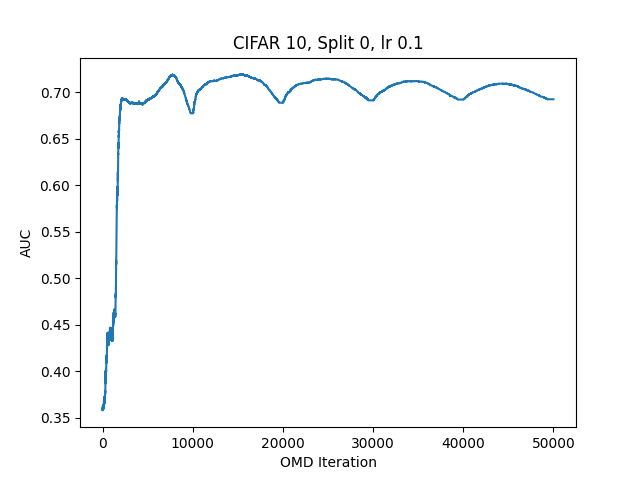
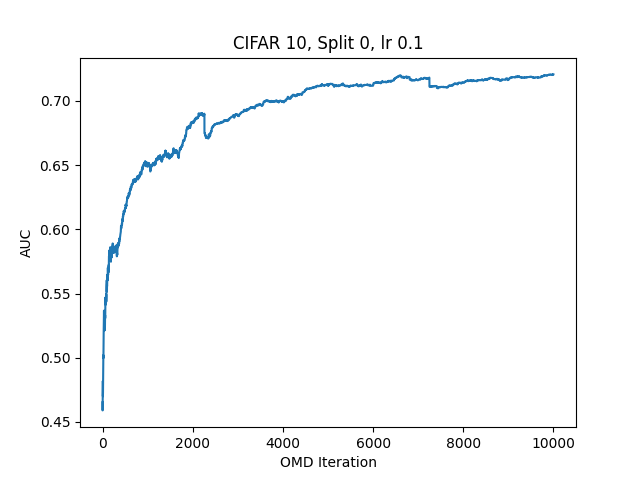
Finished random strategy trial

diff --git a/oracle_omd.py b/oracle_omd.py
@@ -73,7 +73,7 @@ def load_data(split=0, normalize=False):
     return (kn_train, kn_val, kn_test, unkn_train, unkn_val, unkn_test)
 
 
-def omd_test(train_latent_data, latent_data, anom_classes, split, loda_tx_test, test_classes, weight_prior, learning_rate=1e-2):
+def omd_test(train_latent_data, latent_data, anom_classes, split, loda_tx_test, test_classes, weight_prior, strategy="max", learning_rate=1e-2):
     '''
     Training a linear anomaly detector
 
@@ -90,7 +90,7 @@ def omd_test(train_latent_data, latent_data, anom_classes, split, loda_tx_test, 
     '''
     N = len(latent_data)
     T = N
-    epochs = 5
+    epochs = 1
     labels = latent_data['label'].copy()
     labels = labels.to_numpy().reshape((len(labels),1))
     #theta, clf = get_weight_prior(train_latent_data)
@@ -113,7 +113,14 @@ def omd_test(train_latent_data, latent_data, anom_classes, split, loda_tx_test, 
     for k in range(epochs):
         for i in range(T):
             w = get_nearest_w(theta)
-            d_anom, idx = get_max_anomaly_score(w, data)
+            if strategy == "max":
+                # d_anom is data[idx] reshaped to (len(data[idx]),1)
+                d_anom, idx = get_max_anomaly_score(w, data)
+            elif strategy == "random":
+                # assign d_anom, idx appropriately
+                idx = np.random.randint(len(data))
+                d_anom = data[idx].reshape((len(data[idx]),1))
+                assert(idx < len(data) and idx >= 0) 
             y = get_feedback(labels[idx,0], anom_classes)
          
             # Associating nom/anom labels with each iteration
@@ -137,7 +144,7 @@ def omd_test(train_latent_data, latent_data, anom_classes, split, loda_tx_test, 
     return np.array([i for i in range(epochs*T)]), np.array(aucs), np.array(iter_labels) 
 
 
-def omd(train_latent_data, latent_data, anom_classes, split, learning_rate=1e-2):
+def omd(train_latent_data, latent_data, anom_classes, split, strategy="max", learning_rate=1e-2):
     '''
     Training a linear anomaly detector
 
@@ -153,7 +160,7 @@ def omd(train_latent_data, latent_data, anom_classes, split, learning_rate=1e-2)
                   be a list of unique strings)
     '''
     N = len(latent_data)
-    epochs = 5
+    epochs = 1
     T = N
     labels = latent_data['label'].copy()
     labels = labels.to_numpy().reshape((len(labels),1))
@@ -176,7 +183,14 @@ def omd(train_latent_data, latent_data, anom_classes, split, learning_rate=1e-2)
     for k in range(epochs):
         for i in range(T):
             w = get_nearest_w(theta)
-            d_anom, idx = get_max_anomaly_score(w, data) # Could make this more generic strategy function
+            # d_anom is data[idx] reshaped to (len(data[idx]),1)
+            if strategy == "max":
+                d_anom, idx = get_max_anomaly_score(w, data) # Could make this more generic strategy function
+            elif strategy == "random":
+                # assign d_anom, idx appropriately
+                idx = np.random.randint(len(data))
+                d_anom = data[idx].reshape((len(data[idx]),1))
+                assert(idx < len(data) and idx >= 0) 
             y = get_feedback(labels[idx,0], anom_classes)
             data   = np.delete(data, idx, axis=0)
             labels = np.delete(labels, idx, axis=0) 
@@ -592,7 +606,7 @@ def main():
         for j in range(NUM_SPLITS): 
             
              # To revert, replace j with SPLIT
-             anom_classes = [CIFAR_CLASSES[i] for i in splits[SPLIT]]
+             anom_classes = [CIFAR_CLASSES[i] for k in splits[SPLIT]]
              # DEBUG
              #print(anom_classes)
              # GUBED
@@ -653,7 +667,7 @@ def main():
          
 	
              # Note that the train_latent_df is used for determining the initial weight vector
-             w, clf_omd, wprior = omd(train_latent_df, val_latent_df, anom_classes, j, learning_rate=learning_rates[i])
+             w, clf_omd, wprior = omd(train_latent_df, val_latent_df, anom_classes, j, strategy="random", learning_rate=learning_rates[i])
 
          	
              # Construct test set and embed test examples
@@ -663,14 +677,14 @@ def main():
                  test_latent_df = construct_latent_set(kn_classifier, kn_test, unkn_test)
                  test_latent_df.to_csv(Z_test_filename, index=False)
          	
-             '''     
+                 
              # Logistic regression test
              X_val = val_latent_df.drop(columns=['label'])
              X_val = X_val.values
              y_val = val_latent_df['label'].copy()
              len_val = len(y_val)
-             for i in range(len_val):
-                 y_val.iloc[i] = get_feedback(y_val.iloc[i], anom_classes)
+             for k in range(len_val):
+                 y_val.iloc[k] = get_feedback(y_val.iloc[k], anom_classes)
              y_val = y_val.values
              y_val = y_val.astype('int')
              clf = LogisticRegression(max_iter=1000).fit(X_val, y_val)
@@ -680,15 +694,15 @@ def main():
              X_test = X_test.values
              y_test = test_latent_df['label'].copy()
              len_test = len(y_test)
-             for i in range(len_test):
-                 y_test.iloc[i] = get_feedback(y_test.iloc[i], anom_classes)
+             for k in range(len_test):
+                 y_test.iloc[k] = get_feedback(y_test.iloc[k], anom_classes)
              y_test = y_test.values
              y_test = y_test.astype('int')
              # TODO binarize labels
              logistic_score = clf.score(X_test, y_test)
-             print('binary logistic regression score, split {}: {}'.format(j, logistic_score), 
+             print('latent binary logistic regression score, split {}: {}'.format(j, logistic_score), 
                    file=open("results.txt", "a+"))
-             
+             '''
              # TODO: Compute Binary Logistic regression scores on LODA transforms
              # Put validation data through loda transform, then pass it to
              # regression, then score the classifier on the LODA transformed test
@@ -703,10 +717,10 @@ def main():
              else:
                  kn_unkn_val_loda_tx = loda_transform(clf_omd, val_latent_df)
                  np.save(loda_tx_val_filename, kn_unkn_val_loda_tx) 
-             ''' 
+              
              # Train a binary logistic regression classifier on the loda-tx'd latent representations    
              clf_loda_repr       = LogisticRegression(max_iter=1000).fit(kn_unkn_val_loda_tx, y_val)
-             '''
+             
              # Specify path to save loda-transformed latent representation of the test set
              loda_tx_test_filename = os.path.join(MODEL_DATA_DIRECTORY, 'val_loda_tx_test_{}.npy'.format(j)) 
      
@@ -717,12 +731,11 @@ def main():
                  kn_unkn_test_loda_tx = loda_transform(clf_omd, test_latent_df)
                  np.save(loda_tx_test_filename, kn_unkn_test_loda_tx) 
              
-             '''
+             # LODA REP LOGISTIC REGRESSION
              # See how the classifier performs
              loda_tx_logistic_score = clf_loda_repr.score(kn_unkn_test_loda_tx, y_test)
              print('loda tx binary logistic regression score, split {}: {}'.format(j, logistic_score), 
                    file=open("results.txt", "a+"))
-             '''
              
              # Test anomaly detection score on linear model
              # plot AUC (start general, then move to indiv classes?)
@@ -749,7 +762,7 @@ def main():
              #X = data_df.drop(columns=['label'])
          
              # Note that the train_latent_df is used for determining the initial weight vector
-             T_vec, auc_vec, oracle_labels = omd_test(train_latent_df, val_latent_df, anom_classes, j, kn_unkn_test_loda_tx, test_target, wprior, learning_rate=learning_rates[i])
+             T_vec, auc_vec, oracle_labels = omd_test(train_latent_df, val_latent_df, anom_classes, j, kn_unkn_test_loda_tx, test_target, wprior, strategy="random", learning_rate=learning_rates[i])
             
              # Write results to file for further analysis (anomaly isolation, etc.)
              auc_omd_iters_filename = os.path.join(MODEL_DATA_DIRECTORY, 'auc_omd_iters_{}_lr{}.npy'.format(j,i))              
